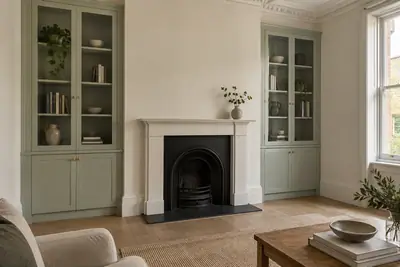
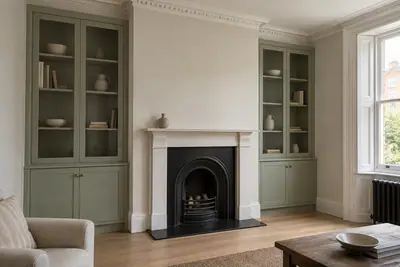
Islington: the AI alcove picture made again with no plants in the units (Denis, 19 Nov)
Denis on the review link: "remove the plants from inside the alcove units". New render, Figma node 43:9: books, bowls and jugs only, still no lighting; picked over 43:8 by an independent check against the S&S render protocol (43:8 stopped short of the cornice and had slab base doors). No retouch. Alt text updated. astro build 36 pages; verify passed; npm test 88 pass.

diff --git a/src/data/areas.ts b/src/data/areas.ts
@@ -217,14 +217,16 @@ export const AREAS: Area[] = [
       },
       {
         /* 19 Nov 2026, Denis on the review link: "remove the leds here". Made again without lighting
-           (Figma node 41:8, picked over 41:9 by an independent check against the render protocol;
-           one faint mark on a door rail retouched). Original PNG in S&S ops deliverables/ai-renders-2026-11-14/. */
+           (Figma node 41:8). Then, the same day, Denis: "remove the plants from inside the alcove units":
+           made again with nothing but books, bowls and jugs on the shelves (node 43:9, picked over 43:8 by
+           an independent check against the render protocol: 43:8 stopped short of the cornice and had slab
+           base doors). No retouch. Original PNGs in S&S ops deliverables/ai-renders-2026-11-14/. */
         file: "/images/journal/islington-ai-glazed-alcove-units.webp",
         type: "Glazed alcove cupboards",
         ai: true,
         width: 1536,
         height: 1024,
-        alt: "Two fitted alcove units painted soft sage green either side of a white fireplace with a black cast-iron insert. Each has a two-door panelled base cupboard and a two-door glazed upper cupboard with shelves holding books and ceramics, all with small brass knobs, running up to the room's cornice. A tall sash window is to the right.",
+        alt: "Two fitted alcove units painted soft sage green either side of a white fireplace with a black cast-iron insert. Each has a two-door panelled base cupboard and a two-door glazed upper cupboard with shelves holding books, bowls and jugs, all with small brass knobs, running up to the room's cornice. A tall sash window with shutters is to the right.",
       },
     ],
     summary: "Late Georgian squares and terraces, Victorian villas and flats in converted houses.",
